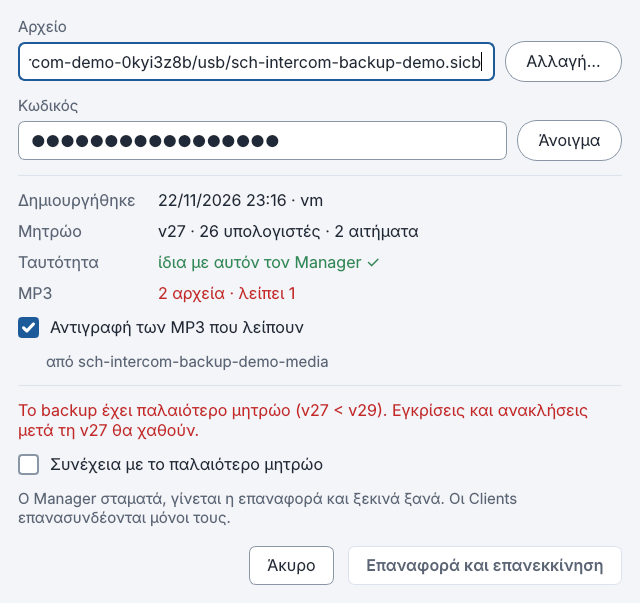
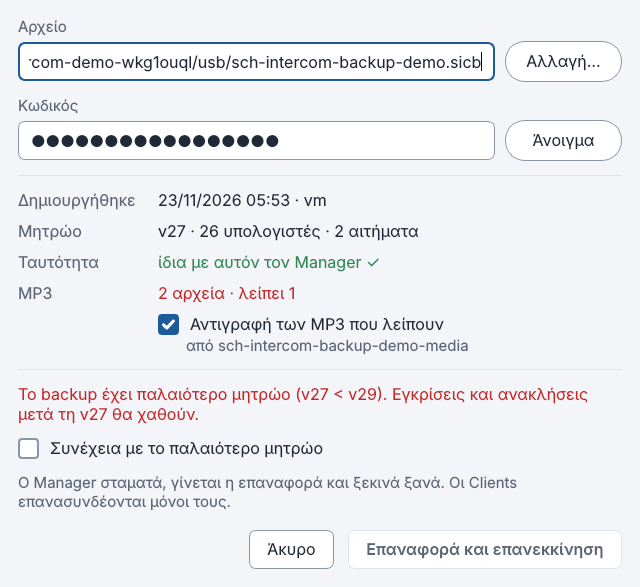
Διορθώσεις UI από τα σχόλια του Michail (Πιστοποιητικά, Συντήρηση)
- Πιστοποιητικά: καταστάσεις κλειδιού και μητρώου τέρμα δεξιά· μάτι για
  εμφάνιση/απόκρυψη αποτυπώματος, κρυμμένο αρχικά (4 πρώτα … 4 τελευταία bytes)
- Συντήρηση: οι δύο κάρτες με ίδιο ύψος και κουμπιά στο κάτω μέρος
- Κωδικός backup τουλάχιστον 8 χαρακτήρες (ήταν 12)
- Επαναφορά: checkbox MP3 στη στήλη τιμών κάτω από το «N αρχεία»·
  «Αλλαγή…»/«Άνοιγμα» ίδιο πλάτος, πεδία στοιχισμένα δεξιά
- ui-style.md, mockup HTML και στιγμιότυπα ενημερωμένα

Claude-Session: https://claude.ai/code/session_01KrSiFuRdGFJqLJHJZizyNo

diff --git a/docs/mockups/director-maintenance.html b/docs/mockups/director-maintenance.html
@@ -36,6 +36,9 @@ body { background: var(--window-bg); color: var(--text); font: 400 16px/1.35 var
 .kv { display:grid; grid-template-columns: max-content minmax(0,1fr); gap: 11px 22px; margin:0; align-items: baseline; }
 .kv dt { color:var(--text-muted); }
 .kv dd { margin:0; min-width:0; }
+.eyebtn { margin-left:auto; width:26px; height:26px; display:inline-flex; align-items:center; justify-content:center; color:var(--text-muted); border-radius:6px; }
+.eyebtn svg { width:16px; height:16px; }
+.kv dd.split { display:flex; justify-content:space-between; gap:12px; }
 .mono { font-family: var(--mono); font-size: 15px; letter-spacing: .01em; line-height:1.5; }
 .ok { color: var(--connected); }
 .err { color: var(--live); }
@@ -50,8 +53,11 @@ body { background: var(--window-bg); color: var(--text); font: 400 16px/1.35 var
 .act.danger { background: var(--live); border-color: var(--live); color:#fff; font-weight:500; }
 .act[disabled] { background:#fff; border-color:var(--card-border); color:#a3acb9; }
 .row { display:flex; gap:10px; align-items:center; flex-wrap:wrap; }
-.fp-row { display:flex; gap:16px; align-items:flex-start; }
-.cards { display:flex; gap:14px; align-items:flex-start; flex-wrap:wrap; }
+.fp-row { display:flex; gap:12px; align-items:center; }
+.cards { display:flex; gap:14px; align-items:stretch; flex-wrap:wrap; }
+.cards .card { display:flex; flex-direction:column; }
+.cards .card > .row:last-child { margin-top:auto !important; padding-top:18px; }
+.pill.same { width:96px; justify-content:center; padding:0; }
 .view { display:none; }
 .view.on { display:flex; flex-direction:column; gap:14px; }
 .view.dialog { display:none; }
@@ -105,12 +111,13 @@ body { background: var(--window-bg); color: var(--text); font: 400 16px/1.35 var
         <dl class="kv">
           <dt>Όνομα</dt><dd>school-intercom-director</dd>
           <dt>Αποτύπωμα SHA-256</dt>
-          <dd><div class="fp-row"><div class="mono">3F:A1:9C:07:5E:D2:84:B6:11:4A:E0:7D:C3:58:92:6F<br>A8:02:D7:4B:91:E6:3C:5A:0F:B4:28:E9:71:CD:06:85</div>
-            <span class="pill" style="margin-left:auto"><svg viewBox="0 0 24 24" fill="none" stroke="currentColor" stroke-width="1.8" stroke-linecap="round" stroke-linejoin="round"><rect x="9" y="9" width="11" height="11" rx="2"/><path d="M5 15V6a2 2 0 0 1 2-2h9"/></svg>Αντιγραφή</span></div></dd>
+          <dd><div class="fp-row"><div class="mono">3F:A1:9C:07 … 71:CD:06:85</div>
+            <span class="eyebtn" title="Εμφάνιση αποτυπώματος"><svg viewBox="0 0 24 24" fill="none" stroke="currentColor" stroke-width="1.8" stroke-linecap="round" stroke-linejoin="round"><path d="M2 12s3.5-7 10-7 10 7 10 7-3.5 7-10 7S2 12 2 12z"/><circle cx="12" cy="12" r="3"/></svg></span>
+            <span class="pill"><svg viewBox="0 0 24 24" fill="none" stroke="currentColor" stroke-width="1.8" stroke-linecap="round" stroke-linejoin="round"><rect x="9" y="9" width="11" height="11" rx="2"/><path d="M5 15V6a2 2 0 0 1 2-2h9"/></svg>Αντιγραφή</span></div></dd>
           <dt>Δημιουργήθηκε</dt><dd>21/11/2026 18:42</dd>
           <dt>Λήξη</dt><dd>Χωρίς λήξη</dd>
-          <dt>Κλειδί</dt><dd>ECDSA P-256 · <span class="ok">● Κρυπτογραφημένο (DPAPI)</span></dd>
-          <dt>Μητρώο</dt><dd>v15 · 11 υπολογιστές · <span class="ok">υπογραφή έγκυρη ✓</span></dd>
+          <dt>Κλειδί</dt><dd class="split">ECDSA P-256<span class="ok">● Κρυπτογραφημένο (DPAPI)</span></dd>
+          <dt>Μητρώο</dt><dd class="split">v15 · 11 υπολογιστές<span class="ok">υπογραφή έγκυρη ✓</span></dd>
           <dt>Φάκελος</dt><dd><span class="ell" title="C:\Users\Γραμματεία\.school-intercom\tls">C:\Users\Γραμματεία\.school-intercom\tls</span></dd>
         </dl>
       </div>
@@ -184,7 +191,7 @@ body { background: var(--window-bg); color: var(--text); font: 400 16px/1.35 var
     <div class="dlg-body">
       <div class="field"><label>Αρχείο</label>
         <div class="row"><div class="input" style="flex:1"><span class="ell">E:\sch-intercom-backup-20261122-2241.sicb</span></div><span class="pill">Αλλαγή…</span></div></div>
-      <div class="field"><label>Κωδικός (τουλάχιστον 12 χαρακτήρες)</label>
+      <div class="field"><label>Κωδικός (τουλάχιστον 8 χαρακτήρες)</label>
         <div class="input"><span class="dots">••••••••••••••••</span><span class="eye"><svg viewBox="0 0 24 24" fill="none" stroke="currentColor" stroke-width="1.8" stroke-linecap="round" stroke-linejoin="round"><path d="M2 12s3.5-7 10-7 10 7 10 7-3.5 7-10 7S2 12 2 12z"/><circle cx="12" cy="12" r="3"/></svg></span></div></div>
       <div class="field"><label>Επιβεβαίωση κωδικού</label>
         <div class="input focus"><span class="dots">••••••••••••••••</span><span class="ok small" style="margin-left:auto">ίδιος ✓</span></div></div>
@@ -201,18 +208,18 @@ body { background: var(--window-bg); color: var(--text); font: 400 16px/1.35 var
     <div class="dlg-title">Επαναφορά από backup<span class="x">✕</span></div>
     <div class="dlg-body">
       <div class="field"><label>Αρχείο</label>
-        <div class="row"><div class="input" style="flex:1"><span class="ell">E:\sch-intercom-backup-20261120-0815.sicb</span></div><span class="pill">Αλλαγή…</span></div></div>
+        <div class="row"><div class="input" style="flex:1"><span class="ell">E:\sch-intercom-backup-20261120-0815.sicb</span></div><span class="pill same">Αλλαγή…</span></div></div>
       <div class="field"><label>Κωδικός</label>
-        <div class="row"><div class="input" style="flex:1"><span class="dots">••••••••••••••••</span></div><span class="pill">Άνοιγμα</span></div></div>
+        <div class="row"><div class="input" style="flex:1"><span class="dots">••••••••••••••••</span></div><span class="pill same">Άνοιγμα</span></div></div>
       <div class="sep"></div>
       <dl class="kv" style="gap:9px 22px">
         <dt>Δημιουργήθηκε</dt><dd>20/11/2026 08:15 · ΓΡΑΜΜΑΤΕΙΑ-PC</dd>
         <dt>Μητρώο</dt><dd>v12 · 9 υπολογιστές · 1 αίτημα</dd>
         <dt>Ταυτότητα</dt><dd class="ok">ίδια με αυτόν τον Manager ✓</dd>
         <dt>MP3</dt><dd>4 αρχεία · <span class="err">λείπουν 2</span></dd>
+        <dt></dt><dd><div class="check"><span class="box on"><svg viewBox="0 0 24 24" fill="none" stroke="#fff" stroke-width="3" stroke-linecap="round" stroke-linejoin="round"><path d="m5 12.5 4.5 4.5L19 7.5"/></svg></span>
+          <div>Αντιγραφή των MP3 που λείπουν<div class="muted small">από sch-intercom-backup-20261120-0815-media</div></div></div></dd>
       </dl>
-      <div class="check"><span class="box on"><svg viewBox="0 0 24 24" fill="none" stroke="#fff" stroke-width="3" stroke-linecap="round" stroke-linejoin="round"><path d="m5 12.5 4.5 4.5L19 7.5"/></svg></span>
-        <div>Αντιγραφή των MP3 που λείπουν<div class="muted small">από sch-intercom-backup-20261120-0815-media</div></div></div>
       <div class="sep"></div>
       <div class="warnline">Το backup έχει παλαιότερο μητρώο (v12 &lt; v15). Εγκρίσεις και ανακλήσεις μετά τη v12 θα χαθούν.</div>
       <div class="check"><span class="box"></span><div>Συνέχεια με το παλαιότερο μητρώο</div></div>

diff --git a/director/qt_maintenance.py b/director/qt_maintenance.py
@@ -17,7 +17,7 @@ from PySide6.QtCore import QSize, Qt, QTimer
 from PySide6.QtGui import QAction, QFontDatabase, QGuiApplication
 from PySide6.QtWidgets import (QApplication, QCheckBox, QDialog, QFileDialog, QFrame,
                                QGridLayout, QHBoxLayout, QLabel, QLayout, QLineEdit, QMessageBox,
-                               QPushButton, QScrollArea, QVBoxLayout, QWidget)
+                               QPushButton, QScrollArea, QToolButton, QVBoxLayout, QWidget)
 
 from director import maintenance as m
 from director.backup import EXTENSION, BackupError
@@ -157,9 +157,19 @@ class CertificatesPanel(QWidget):
         self.copy_button.setIconSize(QSize(px(theme.ICON), px(theme.ICON)))
         self.copy_button.setCursor(Qt.CursorShape.PointingHandCursor)
         self.copy_button.clicked.connect(self.copy_fingerprint)
+        self.reveal_button = QToolButton()
+        self.reveal_button.setObjectName("rowMenu")
+        self.reveal_button.setCheckable(True)
+        self.reveal_button.setIconSize(QSize(px(theme.ICON), px(theme.ICON)))
+        self.reveal_button.setFixedSize(px(26), px(26))
+        self.reveal_button.setCursor(Qt.CursorShape.PointingHandCursor)
+        self.reveal_button.toggled.connect(self._show_fingerprint)
         row.addWidget(self.fingerprint, 1)
+        row.addWidget(self.reveal_button, 0, Qt.AlignmentFlag.AlignVCenter)
         row.addWidget(self.copy_button, 0, Qt.AlignmentFlag.AlignVCenter)
         self.rows.add("fingerprint", "Αποτύπωμα SHA-256", fingerprint_row)
+        self.rows.setAlignment(self.rows.labels["fingerprint"],
+                               Qt.AlignmentFlag.AlignLeft | Qt.AlignmentFlag.AlignVCenter)
         self.rows.add("created", "Δημιουργήθηκε")
         self.rows.add("expires", "Λήξη")
         self.rows.add("key", "Κλειδί", self._pair("key"))
@@ -173,12 +183,13 @@ class CertificatesPanel(QWidget):
         page = QVBoxLayout(self)
         page.setContentsMargins(0, 0, 0, 0)
         page.addWidget(_scroll(body))
+        self._show_fingerprint(False)
         self._copied_timer = QTimer(self)
         self._copied_timer.setSingleShot(True)
         self._copied_timer.timeout.connect(lambda: self.copy_button.setText(COPY))
 
     def _pair(self, key: str) -> QWidget:
-        """«κείμενο · κατάσταση» με τη δεύτερη λέξη σε ok/err χρώμα."""
+        """Κείμενο αριστερά, κατάσταση σε ok/err χρώμα τέρμα δεξιά (σχόλιο 23/11/2026)."""
         widget = QWidget()
         row = QHBoxLayout(widget)
         row.setContentsMargins(0, 0, 0, 0)
@@ -186,8 +197,8 @@ class CertificatesPanel(QWidget):
         main = _label("", "kvValue")
         state = _label("", "kvValue")
         row.addWidget(main)
-        row.addWidget(state)
         row.addStretch(1)
+        row.addWidget(state)
         setattr(self, f"{key}_text", main)
         setattr(self, f"{key}_state", state)
         return widget
@@ -200,20 +211,33 @@ class CertificatesPanel(QWidget):
             return
         self.identity = identity
         self.rows.set("name", identity.name)
-        self.fingerprint.setText(m.fingerprint_lines(identity.fingerprint))
+        self._show_fingerprint(self.reveal_button.isChecked())
         self.rows.set("created", m.date_text(identity.created))
         self.rows.set("expires", identity.expires_text())
-        self.key_text.setText(f"{identity.algorithm} ·")
+        self.key_text.setText(identity.algorithm)
         self.key_state.setText("● " + identity.key_text())
         _repolish(self.key_state, tone="ok" if identity.key_ok else "err")
-        self.registry_text.setText(identity.registry_text()
-                                   + (" ·" if identity.registry_version is not None else ""))
+        self.registry_text.setText(identity.registry_text())
         self.registry_state.setText(m.TEXT_SIGNATURE_OK if identity.signature_ok
                                     else m.TEXT_SIGNATURE_BAD)
         self.registry_state.setVisible(identity.registry_version is not None
                                        or not identity.signature_ok)
         _repolish(self.registry_state, tone="ok" if identity.signature_ok else "err")
         self.rows.set("folder", str(identity.folder))
+
+    def _show_fingerprint(self, shown: bool) -> None:
+        """Μάτι: προεπιλογή κρυμμένο (σχόλιο 23/11/2026)· η Αντιγραφή δίνει πάντα όλο."""
+        name = "eye-off" if shown else "eye"
+        self.reveal_button.setIcon(icons.icon(name, theme.TEXT_MUTED, size=px(theme.ICON)))
+        self.reveal_button.setToolTip("Απόκρυψη αποτυπώματος" if shown
+                                      else "Εμφάνιση αποτυπώματος")
+        self.reveal_button.setAccessibleName(self.reveal_button.toolTip())
+        if self.identity is None:
+            self.fingerprint.setText("")
+            return
+        fingerprint = self.identity.fingerprint
+        self.fingerprint.setText(m.fingerprint_lines(fingerprint) if shown
+                                 else m.fingerprint_short(fingerprint))
 
     def copy_fingerprint(self) -> None:
         if self.identity is None:
@@ -413,6 +437,10 @@ class RestoreDialog(_Dialog):
         self.open_button.clicked.connect(self.load)
         self.password.returnPressed.connect(self.load)
         self.field("Κωδικός", self.password, self.open_button)
+        # Ίδιο πλάτος κουμπιών → τα δύο πεδία στοιχίζονται δεξιά (σχόλιο 23/11/2026).
+        width = max(change.sizeHint().width(), self.open_button.sizeHint().width())
+        change.setFixedWidth(width)
+        self.open_button.setFixedWidth(width)
         self.error = _label("", "warnText")
         self.error.setWordWrap(True)
         self.error.hide()
@@ -430,13 +458,19 @@ class RestoreDialog(_Dialog):
         for key, text in (("created", "Δημιουργήθηκε"), ("registry", "Μητρώο"),
                           ("identity", "Ταυτότητα"), ("mp3", "MP3")):
             self.rows.add(key, text)
-        summary.addLayout(self.rows)
+        # Checkbox στη στήλη των τιμών, ακριβώς κάτω από το «N αρχεία» (σχόλιο 23/11/2026).
+        media = QWidget()
+        media_box = QVBoxLayout(media)
+        media_box.setContentsMargins(0, 0, 0, 0)
+        media_box.setSpacing(px(1))
         self.media = QCheckBox("Αντιγραφή των MP3 που λείπουν")
         self.media.setChecked(True)
         self.media_detail = _label("", "small")
         self.media_detail.setIndent(px(23))
-        summary.addWidget(self.media)
-        summary.addWidget(self.media_detail)
+        media_box.addWidget(self.media)
+        media_box.addWidget(self.media_detail)
+        self.rows.add("media", "", media)
+        summary.addLayout(self.rows)
         self.warning_line = QFrame()
         self.warning_line.setObjectName("dialogSeparator")
         self.warning_line.setFixedHeight(1)
@@ -499,8 +533,7 @@ class RestoreDialog(_Dialog):
             self.rows.set(key, text, tone)
         self.rows.set_visible("mp3", "mp3" in rows)
         copy = info["media_copy_available"]
-        self.media.setVisible(copy)
-        self.media_detail.setVisible(copy)
+        self.rows.set_visible("media", copy)
         self.media_detail.setText("από " + path.stem + "-media")
         warning = m.preview_warning(info)
         for widget in (self.warning_line, self.warning, self.consent):
@@ -658,13 +691,13 @@ class SettingsPage(QWidget):
         self.backup_rows.add("changes", "Από τότε")
         layout.addLayout(self.backup_rows)
         layout.addSpacing(px(4))
+        layout.addStretch(1)   # κουμπί στο κάτω μέρος: ίδια ευθεία με την «Επαναφορά»
         row = QHBoxLayout()
         self.create_button = _button(CREATE_BACKUP, "primaryAction", "backup", theme.WHITE)
         self.create_button.clicked.connect(self.open_backup)
         row.addWidget(self.create_button)
         row.addStretch(1)
         layout.addLayout(row)
-        layout.addStretch(1)
         return card
 
     def _build_restore_card(self) -> QFrame:
@@ -683,6 +716,7 @@ class SettingsPage(QWidget):
         self.restore_rows.add("previous", "Προηγούμενα αρχεία", previous)
         layout.addLayout(self.restore_rows)
         layout.addSpacing(px(4))
+        layout.addStretch(1)
         row = QHBoxLayout()
         row.setSpacing(px(8))
         self.restore_button = _button(OPEN_RESTORE, "secondaryAction", "restore")
@@ -693,7 +727,6 @@ class SettingsPage(QWidget):
         row.addWidget(self.delete_button)
         row.addStretch(1)
         layout.addLayout(row)
-        layout.addStretch(1)
         return card
 
     def _arrange(self, side_by_side: bool) -> None:
@@ -702,10 +735,12 @@ class SettingsPage(QWidget):
         self.side_by_side = side_by_side
         for card in (self.backup_card, self.restore_card):
             self.grid.removeWidget(card)
-        top = Qt.AlignmentFlag.AlignTop | Qt.AlignmentFlag.AlignLeft
-        self.grid.addWidget(self.backup_card, 0, 0, top)
+        # Δίπλα-δίπλα: ίδιο ύψος, κοινή κάτω ευθεία (σχόλιο 23/11/2026).
+        align = Qt.AlignmentFlag.AlignLeft if side_by_side \
+            else Qt.AlignmentFlag.AlignTop | Qt.AlignmentFlag.AlignLeft
+        self.grid.addWidget(self.backup_card, 0, 0, align)
         self.grid.addWidget(self.restore_card, 0 if side_by_side else 1,
-                            1 if side_by_side else 0, top)
+                            1 if side_by_side else 0, align)
         for column in range(3):
             self.grid.setColumnStretch(column, 0)
         for row in range(3):

diff --git a/tools/maintenance_gui_live_test.py b/tools/maintenance_gui_live_test.py
@@ -201,6 +201,8 @@ class LiveTest:
         self.gui.pump()
         panel = window.security_page.certificates
         expected = fingerprint(self.pc.cert)
+        hidden = panel.fingerprint.text() == m.fingerprint_short(expected)
+        panel.reveal_button.click()
         shown = panel.fingerprint.text().replace("\n", ":")
         key = panel.key_state.text()
         wanted_key = m.TEXT_KEY_DPAPI if os.name == "nt" else m.TEXT_KEY_PASSFILE
@@ -208,7 +210,7 @@ class LiveTest:
         from PySide6.QtWidgets import QApplication
         copied = QApplication.clipboard().text()
         self.gui.screenshot("pistopoiitika")
-        ok = (shown == expected and wanted_key in key and copied == expected
+        ok = (hidden and shown == expected and wanted_key in key and copied == expected
               and panel.registry_state.text() == m.TEXT_SIGNATURE_OK
               and panel.rows.values["expires"].text() == m.TEXT_NO_EXPIRY)
         return ok, f"αποτύπωμα ίδιο {shown == expected}, κλειδί «{key}», πρόχειρο {copied == expected}"
@@ -287,7 +289,7 @@ class LiveTest:
             dialog.path.setText(str(self.file))
             dialog.password.setText(PASSWORD)
             dialog.load()
-            seen["rows"] = {k: dialog.rows.values[k].text() for k in dialog.rows.values}
+            seen["rows"] = {k: dialog.rows.values[k].text() for k in dialog.rows.values if k != "media"}
             seen["before_consent"] = dialog.restore.isEnabled()
             seen["consent"] = dialog.consent.text()
             seen["media"] = dialog.media.isChecked() and dialog.info["media_copy_available"]

diff --git a/tests/test_maintenance.py b/tests/test_maintenance.py
@@ -120,6 +120,8 @@ class LogicTests(unittest.TestCase):
     # --- κωδικός ----------------------------------------------------------
     def test_passphrase_rules(self):
         self.assertEqual(m.passphrase_problem("κοντός"), m.TEXT_PASS_SHORT)
+        self.assertEqual(m.passphrase_problem("1234567"), m.TEXT_PASS_SHORT)
+        self.assertIsNone(m.passphrase_problem("12345678", "12345678"))
         self.assertEqual(m.passphrase_problem("123456789012", "123456789013"),
                          m.TEXT_PASS_MISMATCH)
         self.assertIsNone(m.passphrase_problem("123456789012", "123456789012"))
@@ -329,7 +331,12 @@ class QtTests(unittest.TestCase):
         self.assertFalse(page.tab_computers.isChecked())
         panel = page.certificates
         identity = self.manager.model.identity()
+        self.assertEqual(panel.fingerprint.text(), m.fingerprint_short(identity.fingerprint))
+        self.assertNotIn(identity.fingerprint, panel.fingerprint.text())
+        panel.reveal_button.click()
         self.assertEqual(panel.fingerprint.text(), m.fingerprint_lines(identity.fingerprint))
+        panel.reveal_button.click()
+        self.assertEqual(panel.fingerprint.text(), m.fingerprint_short(identity.fingerprint))
         self.assertIn(identity.key_text(), panel.key_state.text())
         self.assertEqual(panel.key_state.property("tone"), "ok")
         self.assertEqual(panel.registry_state.text(), m.TEXT_SIGNATURE_OK)

diff --git a/director/maintenance.py b/director/maintenance.py
@@ -27,7 +27,7 @@ from director.security import ago_text
 from shared.client_registry import verify_document
 from shared.manager_key import ManagerKeyError, is_protected, key_password
 
-PASSPHRASE_MIN = 12
+PASSPHRASE_MIN = backup.PASSWORD_MIN
 NO_EXPIRY_YEAR = 9999
 PRE_RESTORE_PREFIX = "pre-restore-"
 
@@ -76,6 +76,14 @@ def fingerprint_lines(fingerprint: str) -> str:
     parts = fingerprint.split(":")
     half = (len(parts) + 1) // 2
     return ":".join(parts[:half]) + "\n" + ":".join(parts[half:])
+
+
+def fingerprint_short(fingerprint: str) -> str:
+    """Κρυμμένο αποτύπωμα (προεπιλογή): τα 4 πρώτα και τα 4 τελευταία bytes."""
+    parts = fingerprint.split(":")
+    if len(parts) <= 8:
+        return fingerprint
+    return ":".join(parts[:4]) + " … " + ":".join(parts[-4:])
 
 
 def _plural(count: int, one: str, many: str) -> str:

diff --git a/shared/ui/icons.py b/shared/ui/icons.py
@@ -55,6 +55,8 @@ _PATHS = {
     "restore": '<path d="M12 20V9M7.5 13.5 12 9l4.5 4.5M5 4h14"/>',   # βέλος προς τα πάνω
     "eye": ('<path d="M2 12s3.5-7 10-7 10 7 10 7-3.5 7-10 7S2 12 2 12z"/>'
             '<circle cx="12" cy="12" r="3"/>'),
+    "eye-off": ('<path d="M2 12s3.5-7 10-7 10 7 10 7-3.5 7-10 7S2 12 2 12z"/>'
+                '<circle cx="12" cy="12" r="3"/><path d="M4 20 20 4"/>'),
     "mic": ('<rect x="9" y="3" width="6" height="11" rx="3"/>'
             '<path d="M5.5 11a6.5 6.5 0 0 0 13 0M12 17.5V21M8.5 21h7"/>'),
     # Διαγώνια γραμμή από πάνω δεξιά προς κάτω αριστερά (ui-style.md §4).

diff --git a/director/backup.py b/director/backup.py
@@ -95,10 +95,13 @@ def _json(data: bytes) -> dict:
     return value
 
 
+PASSWORD_MIN = 8   # Michail 23/11/2026: 8 αντί για 12
+
+
 def _password(value: str, *, strict: bool = True) -> bytes:
     value = unicodedata.normalize("NFC", value)
-    if strict and len(value) < 12:
-        raise BackupError("Ο κωδικός χρειάζεται τουλάχιστον 12 χαρακτήρες.")
+    if strict and len(value) < PASSWORD_MIN:
+        raise BackupError(f"Ο κωδικός χρειάζεται τουλάχιστον {PASSWORD_MIN} χαρακτήρες.")
     return value.encode("utf-8")
 
 

diff --git a/docs/ui-style.md b/docs/ui-style.md
@@ -123,7 +123,7 @@ Mockup: [PNG](mockups/director-security-computers.png), πηγή [HTML](mockups/
 
 - **Μόνο η ταυτότητα του Manager** (απόφαση χρήστη 22/11/2026). Το backup είναι στη «Συντήρηση» (§8), όχι εδώ.
 - Μία κάρτα «Ταυτότητα Manager», πλάτος έως **670** (κλιμακώνεται), στοιχισμένη πάνω αριστερά, κενό `SCROLL_GAP` πριν από τη γραμμή κύλισης. Χωρίς επεξηγηματικά κείμενα.
-- Γραμμές «ετικέτα — τιμή» (ετικέτα σε `text_muted`, απόσταση 18): **Όνομα** (SAN του πιστοποιητικού), **Αποτύπωμα SHA-256** σε δύο γραμμές των 16 bytes με γραμματοσειρά σταθερού πλάτους (επιλέξιμο κείμενο) και δεξιά pill **Αντιγραφή** με εικονίδιο `copy` (γίνεται «Αντιγράφηκε ✓» για 2″), **Δημιουργήθηκε**, **Λήξη** («Χωρίς λήξη» για 9999-12-31), **Κλειδί** «ECDSA P-256 · ● Κρυπτογραφημένο (DPAPI)» με την κατάσταση σε `connected` (σε `live`: «Χωρίς κρυπτογράφηση» ή «Δεν ανοίγει σε αυτόν τον χρήστη»), **Μητρώο** «vN · M υπολογιστές · υπογραφή έγκυρη ✓» (`connected`, ή «άκυρη υπογραφή» σε `live`), **Φάκελος** (ellipsis, πλήρης διαδρομή στο tooltip).
+- Γραμμές «ετικέτα — τιμή» (ετικέτα σε `text_muted`, απόσταση 18): **Όνομα** (SAN του πιστοποιητικού), **Αποτύπωμα SHA-256** με γραμματοσειρά σταθερού πλάτους (επιλέξιμο κείμενο): προεπιλογή κρυμμένο, μία γραμμή με τα 4 πρώτα και τα 4 τελευταία bytes («3F:A1:9C:07 … 71:CD:06:85»)· κουμπί-μάτι (26×26, όπως το ⋮) το εμφανίζει ολόκληρο σε δύο γραμμές των 16 bytes και το ξανακρύβει (εικονίδιο `eye` / `eye-off`). Δεξιά pill **Αντιγραφή** (αντιγράφει πάντα ολόκληρο) με εικονίδιο `copy` (γίνεται «Αντιγράφηκε ✓» για 2″), **Δημιουργήθηκε**, **Λήξη** («Χωρίς λήξη» για 9999-12-31), **Κλειδί** «ECDSA P-256» και τέρμα δεξιά στην κάρτα «● Κρυπτογραφημένο (DPAPI)» σε `connected` (σε `live`: «Χωρίς κρυπτογράφηση» ή «Δεν ανοίγει σε αυτόν τον χρήστη»), **Μητρώο** «vN · M υπολογιστές» και τέρμα δεξιά «υπογραφή έγκυρη ✓» (`connected`, ή «άκυρη υπογραφή» σε `live`), **Φάκελος** (ellipsis, πλήρης διαδρομή στο tooltip).
 - Τα tabs λειτουργούν όπως στο §6. Η ταυτότητα διαβάζεται όταν ανοίγει το tab, όχι κάθε δευτερόλεπτο.
 
 ## 8. Σελίδα «Ρυθμίσεις» — tab «Συντήρηση» (mockup εγκρίθηκε 22/11/2026)
@@ -131,12 +131,12 @@ Mockup: [PNG](mockups/director-security-computers.png), πηγή [HTML](mockups/
 Στιγμιότυπα από την εφαρμογή: [σελίδα](mockups/director-settings-maintenance.png), [διάλογος backup](mockups/director-maintenance-backup.png), [διάλογος επαναφοράς](mockups/director-maintenance-restore.png) (`python -m tools.maintenance_demo --screenshots DIR`). Πηγή mockup: [director-maintenance.html](mockups/director-maintenance.html) (`#maint`, `#maint-after`, `#backup`, `#restore`, `#progress`). Λειτουργία: [phase4-2c-backup.md](phase4-2c-backup.md) §9.
 
 - **Tabs:** μόνο «Συντήρηση» (απόφαση χρήστη 22/11/2026: **χωρίς** «Γενικά» προς το παρόν). Ίδιο στυλ tabs με το §6.
-- Δύο κάρτες πλάτους **420** (κλιμακώνεται), δίπλα-δίπλα όταν χωρούν, αλλιώς η μία κάτω από την άλλη, στοιχισμένες πάνω αριστερά, κενό `SCROLL_GAP` πριν από τη γραμμή κύλισης:
+- Δύο κάρτες πλάτους **420** (κλιμακώνεται), δίπλα-δίπλα όταν χωρούν, με **ίδιο ύψος** (κοινή κάτω ευθεία) και τα κουμπιά στο κάτω μέρος της κάρτας (23/11/2026), αλλιώς η μία κάτω από την άλλη, στοιχισμένες πάνω αριστερά, κενό `SCROLL_GAP` πριν από τη γραμμή κύλισης:
   - **«Backup»:** Τελευταίο «ημ/νία ώρα · πριν …» (ή «—»), Αρχείο (ellipsis), Από τότε «N αλλαγές μητρώου» σε `live` ή «καμία αλλαγή ✓» σε `connected`. Κουμπί **«Δημιουργία backup…»**: γεμάτο `primary`, λευκό κείμενο semibold και εικονίδιο `backup` (βέλος προς τα κάτω), radius 6, hover `primary_dark`.
   - **«Επαναφορά»:** Τελευταία «ημ/νία ώρα · vN» (ή «—»), Προηγούμενα αρχεία: όνομα του νεότερου `pre-restore-*` σε `live` (και «(+N)» αν είναι περισσότερα) με από κάτω «περιέχει το προηγούμενο ιδιωτικό κλειδί» σε `font_small`, ή «—». Κουμπιά **«Επαναφορά από backup…»** (λευκό, περίγραμμα `control_border`, εικονίδιο `restore`) και, μόνο όταν υπάρχουν προηγούμενα αρχεία, **«Διαγραφή»** (ίδιο στυλ με την Απόρριψη του §6) που ζητά επιβεβαίωση.
-- **Διάλογοι** (φόντο `window_bg`, ελάχιστο πλάτος 490, ύψος όσο το περιεχόμενο): ετικέτες πεδίων σε `text_muted` `font_small` πάνω από το πεδίο· πεδία λευκά, περίγραμμα `control_border`, radius 6, ύψος 32, εστίαση 2px `primary`· «Αλλαγή…»/«Άνοιγμα» ως pill· διαχωριστικά 1px `card_border`· κάτω δεξιά «Άκυρο» (λευκό) και η κύρια ενέργεια (γεμάτο `primary`, ανενεργό λευκό με `card_border`).
-  - **Δημιουργία backup:** Αρχείο (`sch-intercom-backup-ΕΕΕΕΜΜΗΗ-ΩΩΛΛ.sicb` στον τελευταίο φάκελο backup, αλλιώς Έγγραφα), Κωδικός (τουλάχιστον 12, μάτι για εμφάνιση), Επιβεβαίωση, και δεξιά από κάτω «Τουλάχιστον 12 χαρακτήρες» (`text_muted`), «Οι κωδικοί δεν ταιριάζουν» (`live`) ή «ίδιος ✓» (`connected`). Μόνο όταν ο φάκελος MP3 έχει αρχεία: checkbox «Αντίγραφο φακέλου MP3 δίπλα στο backup» (προεπιλογή ναι) με «N αρχεία · μέγεθος · χωρίς κρυπτογράφηση». Πάντα σε `live`: «Χωρίς τον κωδικό το backup δεν ανοίγει. Φυλάξτε τον χωριστά από το αρχείο.»
-  - **Επαναφορά από backup:** Αρχείο + «Αλλαγή…», Κωδικός + «Άνοιγμα». Μετά το «Άνοιγμα» σύνοψη: Δημιουργήθηκε (ημ/νία · υπολογιστής), Μητρώο (vN · υπολογιστές · αιτήματα), Ταυτότητα («ίδια με αυτόν τον Manager ✓» σε `connected` ή «άλλη από αυτόν τον Manager» σε `live`), MP3 («N αρχεία · λείπουν M» σε `live` όταν λείπουν). Checkbox «Αντιγραφή των MP3 που λείπουν» μόνο όταν υπάρχει ο φάκελος `…-media` δίπλα στο backup. Για παλαιότερο/ασύμβατο μητρώο ή άλλη ταυτότητα: προειδοποίηση σε `live` και checkbox ρητής συναίνεσης· μέχρι να τσεκαριστεί, το **«Επαναφορά και επανεκκίνηση»** μένει ανενεργό. Λάθος κωδικός: το μήνυμα του CLI σε `live` κάτω από τον κωδικό.
+- **Διάλογοι** (φόντο `window_bg`, ελάχιστο πλάτος 490, ύψος όσο το περιεχόμενο): ετικέτες πεδίων σε `text_muted` `font_small` πάνω από το πεδίο· πεδία λευκά, περίγραμμα `control_border`, radius 6, ύψος 32, εστίαση 2px `primary`· «Αλλαγή…»/«Άνοιγμα» ως pill με **ίδιο πλάτος**, ώστε τα πεδία να στοιχίζονται δεξιά (23/11/2026)· διαχωριστικά 1px `card_border`· κάτω δεξιά «Άκυρο» (λευκό) και η κύρια ενέργεια (γεμάτο `primary`, ανενεργό λευκό με `card_border`).
+  - **Δημιουργία backup:** Αρχείο (`sch-intercom-backup-ΕΕΕΕΜΜΗΗ-ΩΩΛΛ.sicb` στον τελευταίο φάκελο backup, αλλιώς Έγγραφα), Κωδικός (τουλάχιστον 8, μάτι για εμφάνιση), Επιβεβαίωση, και δεξιά από κάτω «Τουλάχιστον 8 χαρακτήρες» (`text_muted`), «Οι κωδικοί δεν ταιριάζουν» (`live`) ή «ίδιος ✓» (`connected`). Μόνο όταν ο φάκελος MP3 έχει αρχεία: checkbox «Αντίγραφο φακέλου MP3 δίπλα στο backup» (προεπιλογή ναι) με «N αρχεία · μέγεθος · χωρίς κρυπτογράφηση». Πάντα σε `live`: «Χωρίς τον κωδικό το backup δεν ανοίγει. Φυλάξτε τον χωριστά από το αρχείο.»
+  - **Επαναφορά από backup:** Αρχείο + «Αλλαγή…», Κωδικός + «Άνοιγμα». Μετά το «Άνοιγμα» σύνοψη: Δημιουργήθηκε (ημ/νία · υπολογιστής), Μητρώο (vN · υπολογιστές · αιτήματα), Ταυτότητα («ίδια με αυτόν τον Manager ✓» σε `connected` ή «άλλη από αυτόν τον Manager» σε `live`), MP3 («N αρχεία · λείπουν M» σε `live` όταν λείπουν). Checkbox «Αντιγραφή των MP3 που λείπουν» στη στήλη των τιμών, ακριβώς κάτω από το «N αρχεία» (23/11/2026), μόνο όταν υπάρχει ο φάκελος `…-media` δίπλα στο backup. Για παλαιότερο/ασύμβατο μητρώο ή άλλη ταυτότητα: προειδοποίηση σε `live` και checkbox ρητής συναίνεσης· μέχρι να τσεκαριστεί, το **«Επαναφορά και επανεκκίνηση»** μένει ανενεργό. Λάθος κωδικός: το μήνυμα του CLI σε `live` κάτω από τον κωδικό.
   - **Πρόοδος επαναφοράς:** τρία βήματα (Διακοπή εξυπηρέτησης Clients, Έλεγχος και εγκατάσταση αρχείων, Επανεκκίνηση Manager), «✓» σε `connected` για όσα τελείωσαν, «●» και semibold για το τρέχον.
 - Η επαναφορά δεν ξεκινά όσο υπάρχει ζωντανή ανακοίνωση («Τερματίστε πρώτα τη ζωντανή ανακοίνωση.»).
 

diff --git a/docs/phase4-2c-backup.md b/docs/phase4-2c-backup.md
@@ -86,7 +86,7 @@
 - **KDF:** scrypt από τη `cryptography` (ήδη υποχρεωτική εξάρτηση), `n=2^17, r=8, p=1`, κλειδί 32 bytes (περίπου 128 MiB μνήμη, κάτω από 1 δευτερόλεπτο σε σχολικό PC). Οι παράμετροι γράφονται στην κεφαλίδα ώστε να μπορούν να αλλάξουν αργότερα. Στο restore γίνονται δεκτές μόνο τιμές μέσα σε όρια (`2^15 ≤ n ≤ 2^20`, `r = 8`, `1 ≤ p ≤ 4`), ώστε ένα πειραγμένο αρχείο να μη γονατίσει τον υπολογιστή.
 - **AEAD:** AES-256-GCM (`AESGCM`) με AAD όπως στο §3.
 - **Κωδικός (passphrase):**
-  - τουλάχιστον **12 χαρακτήρες**, πληκτρολογείται **δύο φορές** στο backup·
+  - τουλάχιστον **8 χαρακτήρες** (ήταν 12· αλλαγή 23/11/2026), πληκτρολογείται **δύο φορές** στο backup·
   - κανονικοποίηση Unicode **NFC** και UTF-8 πριν από το KDF, ώστε ελληνικοί τόνοι να δίνουν το ίδιο αποτέλεσμα σε κάθε πληκτρολόγιο·
   - δεν αποθηκεύεται, δεν εμφανίζεται, δεν γράφεται σε log ή σε command line·
   - διαβάζεται με `getpass`. Μόνο για τα αυτόματα scripts: κρυφή επιλογή `--passphrase-env ONOMA` (όπως το `--max-pending-requests`), που διαβάζει τον κωδικό από μεταβλητή περιβάλλοντος.
@@ -180,7 +180,7 @@
 6. `format: 2` → μήνυμα «νεότερη έκδοση».
 7. Backup χωρίς προαιρετικές ενότητες → restore με προεπιλογές. Άγνωστη ενότητα → αναφέρεται και αγνοείται. Λείπει `tls_identity` ή `client_registry` → απόρριψη.
 8. Κλειδί που δεν ταιριάζει με το πιστοποιητικό, ή μητρώο με άκυρη υπογραφή → απόρριψη τόσο στο create όσο και στο restore.
-9. Κωδικός < 12 χαρακτήρων ή διαφορετική επιβεβαίωση → άρνηση. Ίδιος ελληνικός κωδικός σε NFC και NFD → ίδιο αποτέλεσμα.
+9. Κωδικός < 8 χαρακτήρων ή διαφορετική επιβεβαίωση → άρνηση. Ίδιος ελληνικός κωδικός σε NFC και NFD → ίδιο αποτέλεσμα.
 10. Νέο salt και nonce σε κάθε backup (δύο backup των ίδιων δεδομένων διαφέρουν).
 11. Restore με κρατημένο `manager.lock` → κωδικός 4.
 12. Restore πάνω σε άλλη ταυτότητα → κωδικός 5. Με `--replace-identity` → επιτυχία και `pre-restore-<ts>` με τα παλιά αρχεία.
